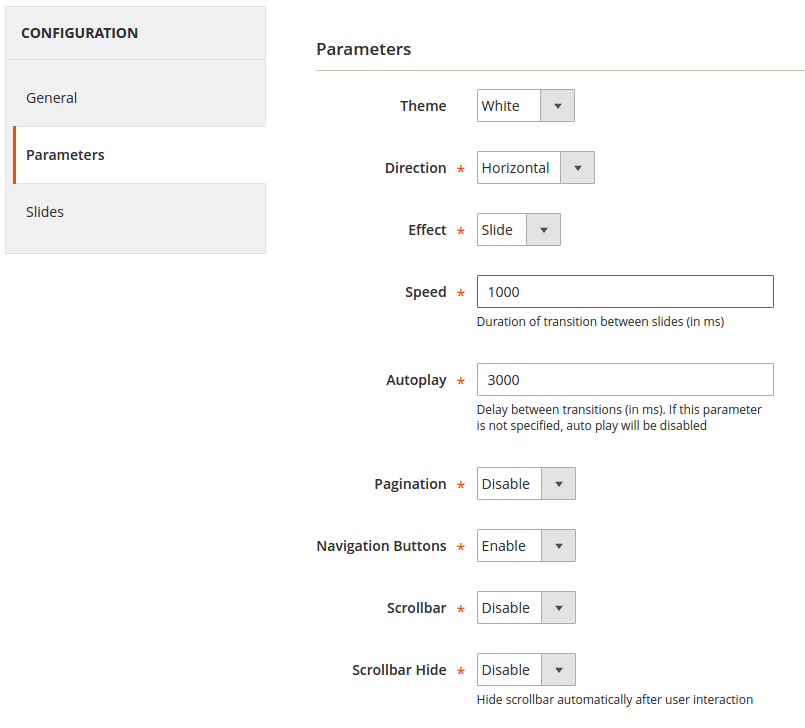
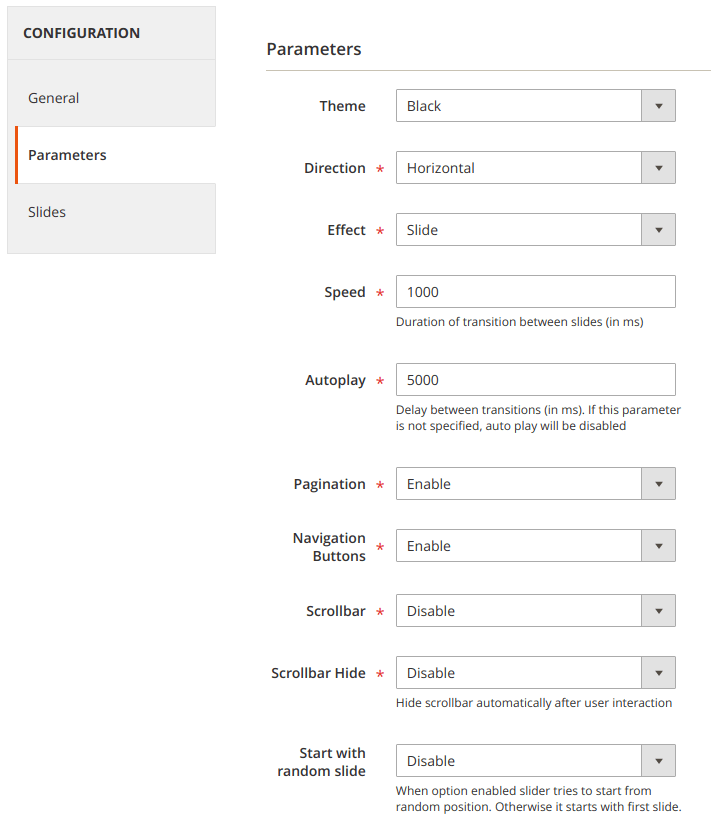
M2 module updates

diff --git a/m2/argento/changelog.md b/m2/argento/changelog.md
@@ -7,6 +7,43 @@ category: Argento
 
 # Argento Changelog
 
+### Version 1.9.1
+
+> Mar 29, 2019
+
+ -  Magento 2.3 compatibility
+ -  Small CSS improvements for RTL languages
+
+**Extensions Updates**
+
+ -  [Ajaxpro](/m2/extensions/ajaxpro/)
+    - Fixed static content deployment on Magento 2.3 (There was an error about
+      missing swatches.less file)
+ -  [Ajaxsearch](/m2/extensions/ajaxsearch/)
+    - Fixed possible XSS vulnerability
+    - Fixes for RTL styles
+    - Style improvements in search dropdowns
+ -  [AMP](/m2/extensions/amp/)
+    - Magento 2.3.1 compatibility (Fixed missing tabs at product page)
+    - New customization [abilities added](/m2/extensions/amp/use-cases/#remove-tag)
+ -  [EasySlide](/m2/extensions/easyslider/)
+    - Magento 2.3.1 compatibility
+    - Added ability to start slider from [random slide](/m2/extensions/easyslider/interfaces/#slider-parameters)
+ -  [GDPR](/m2/extensions/gdpr/)
+    - Fixed mysql error on client consents page when table prefixes are used
+ -  [HoverGallery](/m2/extensions/hover-gallery/)
+    - Fixed broken html markup when product name has special symbols in the name
+    - Removed invalid 'srcset' attribute
+ -  [NavigationPro](/m2/extensions/navigationpro/)
+    - Magento 2.3.1 compatibility (Fixed horizontal scrollbar)
+    - Fixed invalid breadcrumbs when multiple menu's found on the same page
+ -  [ProLabels](/m2/extensions/prolabels/)
+    - Magento 2.3 compatibility (Fixed broken file uploader)
+ -  [SoldTogether](/m2/extensions/sold-together/)
+    - RTL styles added
+ -  [Testimonials](/m2/extensions/testimonials/)
+    - Magento 2.3 compatibility (Fixed broken file uploader)
+
 ### Version 1.9.0
 
 > Feb 26, 2019

diff --git a/m2/extensions/soldtogether/changelog.md b/m2/extensions/soldtogether/changelog.md
@@ -8,6 +8,12 @@ category: SoldTogether
 
 # Changelog
 
+### Version 1.4.2
+
+> Mar 29, 2019
+
+ -  RTL styles added
+
 ### Version 1.4.1
 
 > Dec 19th, 2018
@@ -27,7 +33,7 @@ category: SoldTogether
 
 > Sep 27th, 2018
 
- -  Internal module naming convention was updated. We applied this changes to reach full compatibility with Magento Marketplace policy. 
+ -  Internal module naming convention was updated. We applied this changes to reach full compatibility with Magento Marketplace policy.
 
 ### Version 1.2.7
 

diff --git a/m2/extensions/easyslider/interfaces.md b/m2/extensions/easyslider/interfaces.md
@@ -41,6 +41,8 @@ After clicking on any slider from the submitted list, you will be able to edit t
   * Navigation Buttons - select Yes to display arrows of next and previous navigation.
   * Scrollbar - enabled slider scrollbar
   * Scrollbar Hide - Hide scrollbar automatically after user interaction
+  * Start with random slide - Ability to start slider from random slide. (First
+    slide is used by default)
 
 ##### Slides
 

diff --git a/m2/extensions/easyslider/changelog.md b/m2/extensions/easyslider/changelog.md
@@ -8,6 +8,14 @@ category: Easy Slider
 
 # Changelog
 
+### Version 1.3.0
+
+> Mar 29, 2019
+
+ -  Magento 2.3.1 compatibility
+ -  Added ability to start slider from [random slide](/m2/extensions/easyslider/interfaces/#slider-parameters)
+ -  Code cleanup and small improvements
+
 ### Version 1.1.3
 
  -  Magento 2.2 compatibility

diff --git a/m2/extensions/navigationpro/changelog.md b/m2/extensions/navigationpro/changelog.md
@@ -8,6 +8,14 @@ category: Navigationpro
 
 # Changelog
 
+### Version 1.9.3
+
+> Mar 29, 2019
+
+ -  Magento 2.3.1 compatibility
+ -  Fixed invalid breadcrumbs when multiple menu's found on the same page
+ -  Added missing localization file
+
 ### Version 1.9.2
 
 > Feb 26, 2019

diff --git a/m2/extensions/hover-gallery/changelog.md b/m2/extensions/hover-gallery/changelog.md
@@ -8,6 +8,14 @@ category: Hover Gallery
 
 # Changelog
 
+### Version 1.1.1
+
+> Mar 29, 2019
+
+ -  Fixed broken html markup when product name has special symbols in the name
+ -  Removed invalid 'srcset' attribute
+ -  Code cleanup
+
 ### Version 1.0.0
 
  -  Initial release

diff --git a/m2/extensions/gdpr/changelog.md b/m2/extensions/gdpr/changelog.md
@@ -8,6 +8,13 @@ category: GDPR
 
 # Changelog
 
+### Version 1.1.1
+
+> Mar 29, 2019
+
+ -  Added missing localization file
+ -  Fixed mysql error on client consents page when table prefixes are used
+
 ### Version 1.0.0
 
  -  Initial Release

diff --git a/m2/extensions/ajaxpro/changelog.md b/m2/extensions/ajaxpro/changelog.md
@@ -6,6 +6,13 @@ category: AjaxPro
 
 # Changelog
 
+### Version 1.4.4
+
+> Mar 29, 2019
+
+ -  Fixed static content deployment on Magento 2.3 (There was an error about
+    missing swatches.less file)
+
 ### Version 1.4.3
 
 > Feb 26, 2019

diff --git a/m2/extensions/ajaxsearch/changelog.md b/m2/extensions/ajaxsearch/changelog.md
@@ -8,6 +8,14 @@ category: AjaxSearch
 
 # Changelog
 
+### Version 1.5.3
+
+> Mar 29, 2019
+
+ -  Fixed possible XSS vulnerability
+ -  Styles improvements
+ -  Fixes for RTL styles
+
 ### Version 1.5.2
 
 > Mar 27, 2019

diff --git a/m2/extensions/amp/changelog.md b/m2/extensions/amp/changelog.md
@@ -8,6 +8,12 @@ category: Accelerated Mobile Pages
 
 # Changelog
 
+### Version 1.3.1
+
+> Mar 29, 2019
+
+ -  Magento 2.3.1 compatibility (Fixed missing tabs at product page)
+
 ### Version 1.3.0
 
 > Mar 14, 2019

diff --git a/m2/extensions/lightboxpro/changelog.md b/m2/extensions/lightboxpro/changelog.md
@@ -8,6 +8,12 @@ category: Lightbox Pro
 
 # Changelog
 
+### Version 1.2.2
+
+> Mar 29, 2019
+
+ -  Added missing localization file
+
 ### Version 1.2.1
 
  -  Fixed applying popup layout type on Magento 2.3

diff --git a/m2/extensions/testimonials/changelog.md b/m2/extensions/testimonials/changelog.md
@@ -8,6 +8,12 @@ category: Testimonials
 
 # Changelog
 
+### Version 1.2.4
+
+> Mar 29, 2019
+
+ -  Magento 2.3 compatibility (Fixed broken file uploader)
+
 ### Version 1.2.3
 
 > Feb 26, 2019
